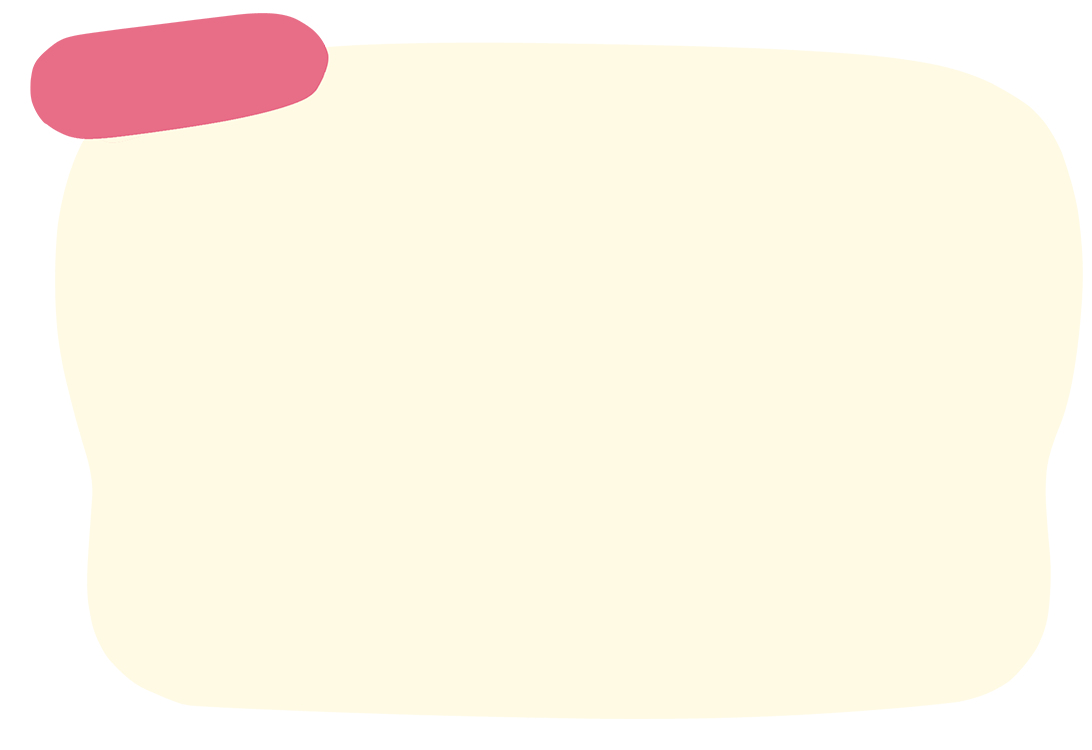
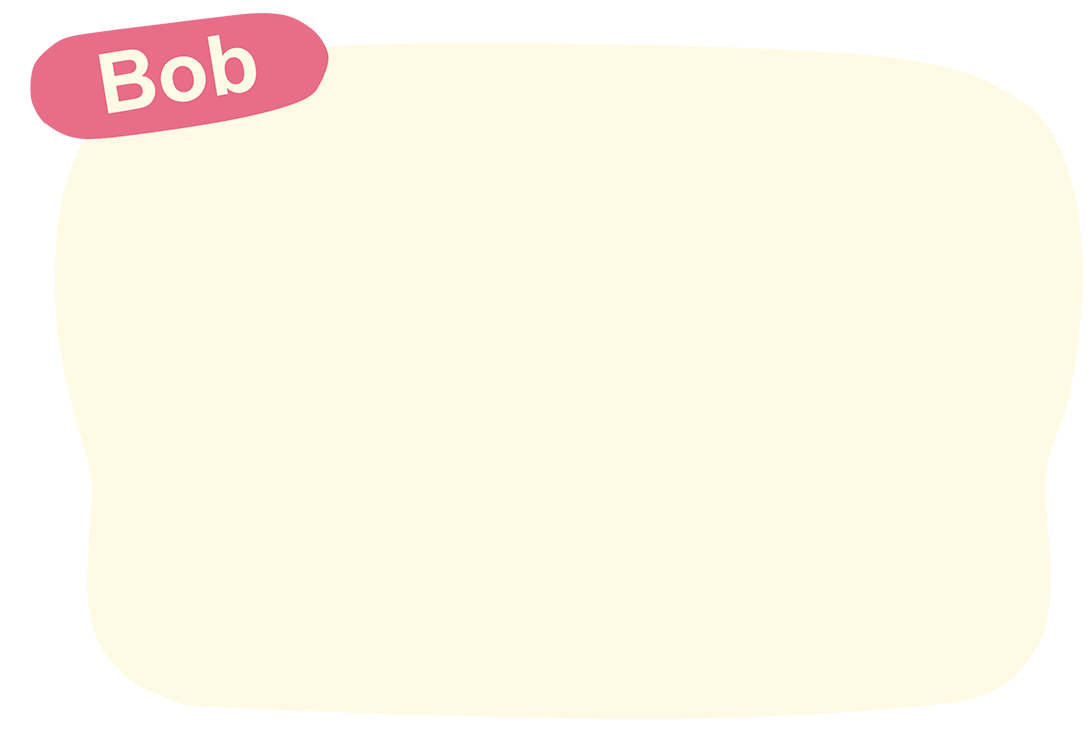
added bob's name to box and fixed import type for texture.

Changed region(s): [[0.0934, 0.0307, 0.2491, 0.1533]]

diff --git a/src/objects/DialogManager.js b/src/objects/DialogManager.js
@@ -17,6 +17,8 @@ export class DialogManager extends GameObject {
         // Set up the dialog sprite
         const spritePath = game.basePath + '/images/mobile_box.png';
         this.textureLoader.load(spritePath, (texture) => {
+            texture.encoding = THREE.sRGBEncoding;
+            texture.colorSpace = THREE.SRGBColorSpace;
             const material = new THREE.SpriteMaterial({ 
                 map: texture,
                 transparent: true,
